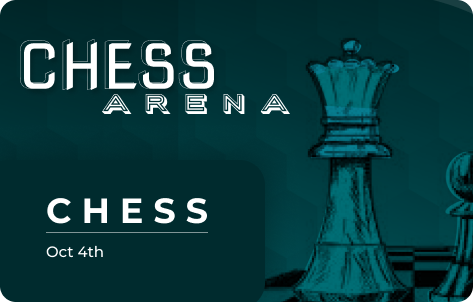
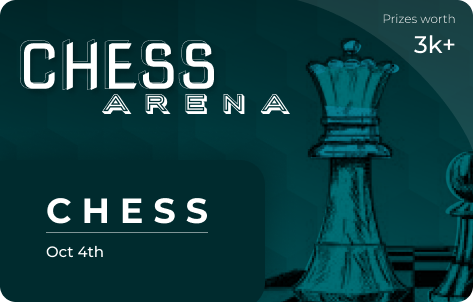
designer changes

Changed region(s): [[0.6216, 0.0, 1.0, 0.4768]]

diff --git a/index.html b/index.html
@@ -33,10 +33,11 @@
         <div class="about__content">
           <h1>Fall Fiesta:</h1>
           <p class="about__content__info">
-            <span>As</span> we bid goodbye to the rainy days, October brings to us short-lived but beautiful autumn before we solace in the winter bells.
-            While the weather starts to get chilly and leaves start turning yellow and brown, EFFE 21 announces the launch of “FALL FIESTA”, a celebration warm like bonfire nights, sweet like the harvest fruits and exciting like the Halloween stories.
-            The digitally organised three-day-long fiesta has in for all a rollercoaster ride of enthralling and fun activities along with delightful and irresistible rewards. This October presents the crunchy leaves, the gentle stream, the shiny conkers, the colourful trees, and a Pre-fest overflowing with breathtaking events!
-          </p>
+            <span>As</span>we bid goodbye to the rainy days, October brings to us short-lived but beautiful autumn before we solace in the winter bells.
+Effervescence 21 celebrated this change   “FALL FIESTA”, a celebration warm like bonfire nights and exciting like the Halloween stories. 
+The digitally organised three-day-long fiesta had in for all a rollercoaster ride of enthralling and fun activities along with delightful and irresistible rewards. 
+Smashing bgmi battles to witty laughter riots of improv comedy.
+This October heralded with the crunchy leaves, the gentle stream, the shiny conkers, the colourful trees, and a Pre-fest overflowing with breathtaking events!</p>
         </div>
 
       </section>
@@ -54,19 +55,11 @@
               <div class="info_event">
                 <h1>Chess</h1>
                 <p>
-                  The blunders are all there on the board, waiting to be made.
-                  Are you wary enough to dodge them? Bring out the inner
-                  Vishwanathan in you in the ultimate test of your strategic and
-                  logical thinking. Prizes worth Rs. 3k
+                  
+Participants brought out the inner Vishwanathan in them in the ultimate test of their strategic and logical thinking. Prizes worth Rs. 3k were at stake.
                 </p>
               </div>
-              <div class="button">
-                <a
-                  href="https://docs.google.com/forms/d/1bQJNF7_AvQvuS42ulxbgCprt5knzIPOrAhvpMmts6ls/closedform"
-                  target="_blank"
-                  >Register NOW</a
-                >
-              </div>
+              
             </div>
           </div>
           <div class="card">
@@ -78,19 +71,10 @@
               <div class="info_event">
                 <h1>BGMI</h1>
                 <p>
-                  The battle Royale game,favoured by millions, the perfect
-                  conjunction of action, strategy and team play.Join your squad
-                  for an exhilarating round of play and prove your skills. Stand
-                  a chance to take home prizes worth Rs.6k.
+                  The battle Royale game, favoured by millions, the perfect conjunction of action, strategy and team play. The absolutely engaging gameplay had players and onlookers equally excited. Winer took home prizes worth Rs.6k.
                 </p>
               </div>
-              <div class="button">
-                <a
-                  href="https://docs.google.com/forms/d/e/1FAIpQLSeXk0lE4fCJqDwkcamHB0l97wGvLt6RtzKVxengt61lP3aG0A/viewform"
-                  target="_blank"
-                  >Register NOW</a
-                >
-              </div>
+            
             </div>
           </div>
           <div class="card">
@@ -101,18 +85,9 @@
               <div class="info_event">
                 <h1>Improv Comedy</h1>
                 <p>
-                  Improv is purely a blend of drama and comedy. Unrehearsed.
-                  Unscripted. Unpredictable. Come with all your wits and charm
-                  and take the audience by surprise. Prizes worth Rs.6k+
-                </p>
+                  Improv is purely a blend of drama and comedy. Unrehearsed. Unscripted.Unpredictable. Contestants came with all their wits and charm and had the audience in splits. Prizes worth Rs.6k+</p>
               </div>
-              <div class="button">
-                <a
-                  href="https://docs.google.com/forms/d/1_Jvra863xEko0O3kldXKELsABB4g4WLe6MQICBtAX6U/viewform?edit_requested=true"
-                  target="_blank"
-                  >Register NOW</a
-                >
-              </div>
+             
             </div>
           </div>
           <div class="card">
@@ -123,18 +98,10 @@
               <div class="info_event">
                 <h1>Smash Karts</h1>
                 <p>
-                  Racing cars, smashing grenades and limited time. Sounds simple
-                  right? Gather up your buddies and play fun rounds of smash
-                  kart battle and jump up the leaderboard for exciting rewards.
+                 Racing cars, smashing grenades and limited time. The adrenaline rush was in full swing with an enthralling smash karts battle with equally exciting prizes.
                 </p>
               </div>
-              <div class="button">
-                <a
-                  href="https://docs.google.com/forms/d/1v4XgggyK2m3bdforfY3EH440n8ZUDFAPQhTrAYzrAyY/edit"
-                  target="_blank"
-                  >Register NOW</a
-                >
-              </div>
+             
             </div>
           </div>
           <div class="card">
@@ -146,18 +113,10 @@
               <div class="info_event">
                 <h1>Auction</h1>
                 <p>
-                  Test your IPL knowledge at the preliminary quiz and map out
-                  and bid your money sensibly using your past experiences and
-                  intuition to assemble an unformidable team at the auction.
+                 Participants got a chance to put their ipl knowledge to the test and used it to assemble their teams in this exciting event
                 </p>
               </div>
-              <div class="button">
-                <a
-                  href="https://docs.google.com/forms/d/1zD0LR8M6oxml-gu98BzyA-Xaw_f2QH9w2extvYOmUVM/edit"
-                  target="_blank"
-                  >Register NOW</a
-                >
-              </div>
+             
             </div>
           </div>
         </div>

diff --git a/script/app.js b/script/app.js
@@ -4,26 +4,40 @@ const about = document.querySelector(".about");
 const scrollToAbout = document.querySelector(".scrollToAbout");
 const main = document.querySelector("main");
 
+const leafImageArray = [
+  "./img/leave0.png",
+  "./img/leave1.png",
+  "./img/leave2.png",
+  "./img/leave3.png",
+  "./img/leave4.png",
+  "./img/leave5.png",
+  "./img/leave6.png",
+];
+
 let leafDistance = 0;
 const count = 25;
 for (let i = 0; i < count; ++i) {
   leafDistance += 100 / count;
 
+  const imageNumber = Math.floor(Math.random() * 7);
+
   header.innerHTML += `
-  <img style= 'z-index:10;position: fixed;left: -2%; width:80px; top: 
+  <img style= 'z-index:10;position: fixed;left: -2%; width:80px; top:
   ${leafDistance - 8}%; transform: rotateZ(${Math.random() * 90}deg) scale(${
     Math.random() + 0.2
-  });  filter: drop-shadow(0px 0px 10px rgba(255, 255, 255, 0.4));' 
-  src="./img/leave.png" />
+  });  filter: drop-shadow(0px 0px 15px rgba(255, 255, 255, 0.4));'
+  src=${leafImageArray[imageNumber]} />
 
   `;
 
   header.innerHTML += `
-  <img style= 'position: fixed;right: -2%; width:80px; top: 
+  <img style= 'position: fixed;right: -2%; width:80px; top:
   ${leafDistance - 8}%; transform: rotateZ(${
     270 - Math.random() * 90
-  }deg) scale(${Math.random() + 0.2});  ' 
-  src="./img/leave.png" />
+  }deg) scale(${
+    Math.random() + 0.2
+  }); filter: drop-shadow(0px 0px 15px rgba(255, 255, 255, 0.4));  '
+  src=${leafImageArray[imageNumber]}  />
 
   `;
 }
@@ -34,8 +48,8 @@ window.addEventListener("wheel", () => {
     treeCanvas.classList.contains("fixed")
   ) {
     treeCanvas.classList.remove("fixed");
-    // fallCanvas.classList.remove("fixed");
-    // fallCanvas.classList.add("absolute");
+    fallCanvas.classList.remove("fixed");
+    fallCanvas.classList.add("absolute");
     treeCanvas.classList.add("absolute");
   }
   if (
@@ -43,8 +57,8 @@ window.addEventListener("wheel", () => {
     treeCanvas.classList.contains("absolute")
   ) {
     treeCanvas.classList.remove("absolute");
-    // fallCanvas.classList.remove("absolute");
-    // fallCanvas.classList.add("fixed");
+    fallCanvas.classList.remove("absolute");
+    fallCanvas.classList.add("fixed");
     treeCanvas.classList.add("fixed");
   }
 });

diff --git a/styles/style.css b/styles/style.css
@@ -9,20 +9,25 @@ html {
   font-family: -apple-system, BlinkMacSystemFont, "Segoe UI", Roboto, Oxygen,
     Ubuntu, Cantarell, "Open Sans", "Helvetica Neue", sans-serif;
   scroll-behavior: smooth;
-  scrollbar-color: rgb(255, 123, 3) rgba(0, 0, 0, 0);
+  scrollbar-color: rgba(255, 123, 3, 0.5) rgba(0, 0, 0, 0);
   scrollbar-width: thin;
 }
 body {
   overflow-x: hidden;
+  background: rgba(255, 217, 181, 0.3);
+
+  z-index: -10;
 }
 ::-webkit-scrollbar {
-  width: 5px;
-  border: 1px solid black;
+  width: 10px;
+  border-radius: 150px;
 }
 ::-webkit-scrollbar-thumb {
-  background-color: rgb(255, 123, 3);
+  background-color: rgba(255, 123, 3, 0.6);
   border-radius: 10px;
-  border: 1px solid black;
+}
+::-webkit-scrollbar-thumb:hover {
+  background-color: rgba(255, 123, 3, 1);
 }
 .main-canvas {
   height: 100%;
@@ -223,32 +228,9 @@ section {
     line-height: 1.3rem;
   }
   .about__content__info {
-    font-size: 0.9rem;
+    font-size: 0.85rem;
   }
   .header {
     display: none;
-  }
-}
-
-@media screen and (max-width: 360px) {
-  .about__content {
-    display: flex;
-    flex-direction: column;
-    justify-content: center;
-    align-items: center;
-    padding: 1rem 1rem;
-    line-height: 1.2rem;
-    font-size: 0.7rem;
-  }
-
-  .about__content__info {
-    padding: 2rem 0rem;
-  }
-  .about__content__info span {
-    font-size: 1.8rem;
-  }
-  .about__content h1 {
-    font-size: 2.5rem;
-    width: 90%;
   }
 }

diff --git a/styles/events.css b/styles/events.css
@@ -28,7 +28,7 @@
   position: relative;
   display: flex;
   margin: 1rem 1.5rem;
-  box-shadow: 0px 0px 10px rgb(255, 123, 3);
+  box-shadow: 0px 0px 5px rgba(0, 0, 0, 0.3);
 }
 
 .card:nth-child(3) {
@@ -55,7 +55,7 @@
   transform: perspective(600px) rotateY(180deg);
   backface-visibility: hidden;
   overflow: hidden;
-  transition: transform 0.6s linear;
+  transition: transform 0.8s linear;
   background: rgba(19, 35, 61, 1);
   color: aliceblue;
   display: flex;
@@ -133,7 +133,7 @@
   height: 100%;
   position: absolute;
   transform: perspective(600px) rotateY(0deg);
-  transition: transform 0.6s linear;
+  transition: transform 0.8s linear;
   backface-visibility: hidden;
   overflow: hidden;
 }

diff --git a/script/hoverEffect.js b/script/hoverEffect.js
@@ -14,11 +14,11 @@ const mouse = {
   x: undefined,
   y: undefined,
 };
-
 window.addEventListener("mousemove", (e) => {
+  const leafCount = Math.round(Math.random() - 0.2);
   mouse.x = e.x;
   mouse.y = e.y;
-  for (let i = 0; i < 1; ++i) {
+  for (let i = 0; i < leafCount; ++i) {
     leafHoverArray.push(new Leaf(mouse.x, mouse.y));
   }
 });

diff --git a/script/fall.js b/script/fall.js
@@ -37,8 +37,14 @@ const fallLeaves = () => {
   }
 };
 
+for (let i = 0; i < 10; ++i) {
+  leafFallArray.push(new LeafFall());
+}
+
+fallLeaves();
+
 setInterval(() => {
-  for (let i = 0; i < 5; ++i) {
+  for (let i = 0; i < 10; ++i) {
     leafFallArray.push(new LeafFall());
   }
 

diff --git a/script/tree.js b/script/tree.js
@@ -111,6 +111,6 @@ drawTree(
   treeCanvas.height * treeLengthFactor,
   0,
   branchWidth,
-  "brown",
+  "#65350f",
   "rgb(255,123,3)"
 );
